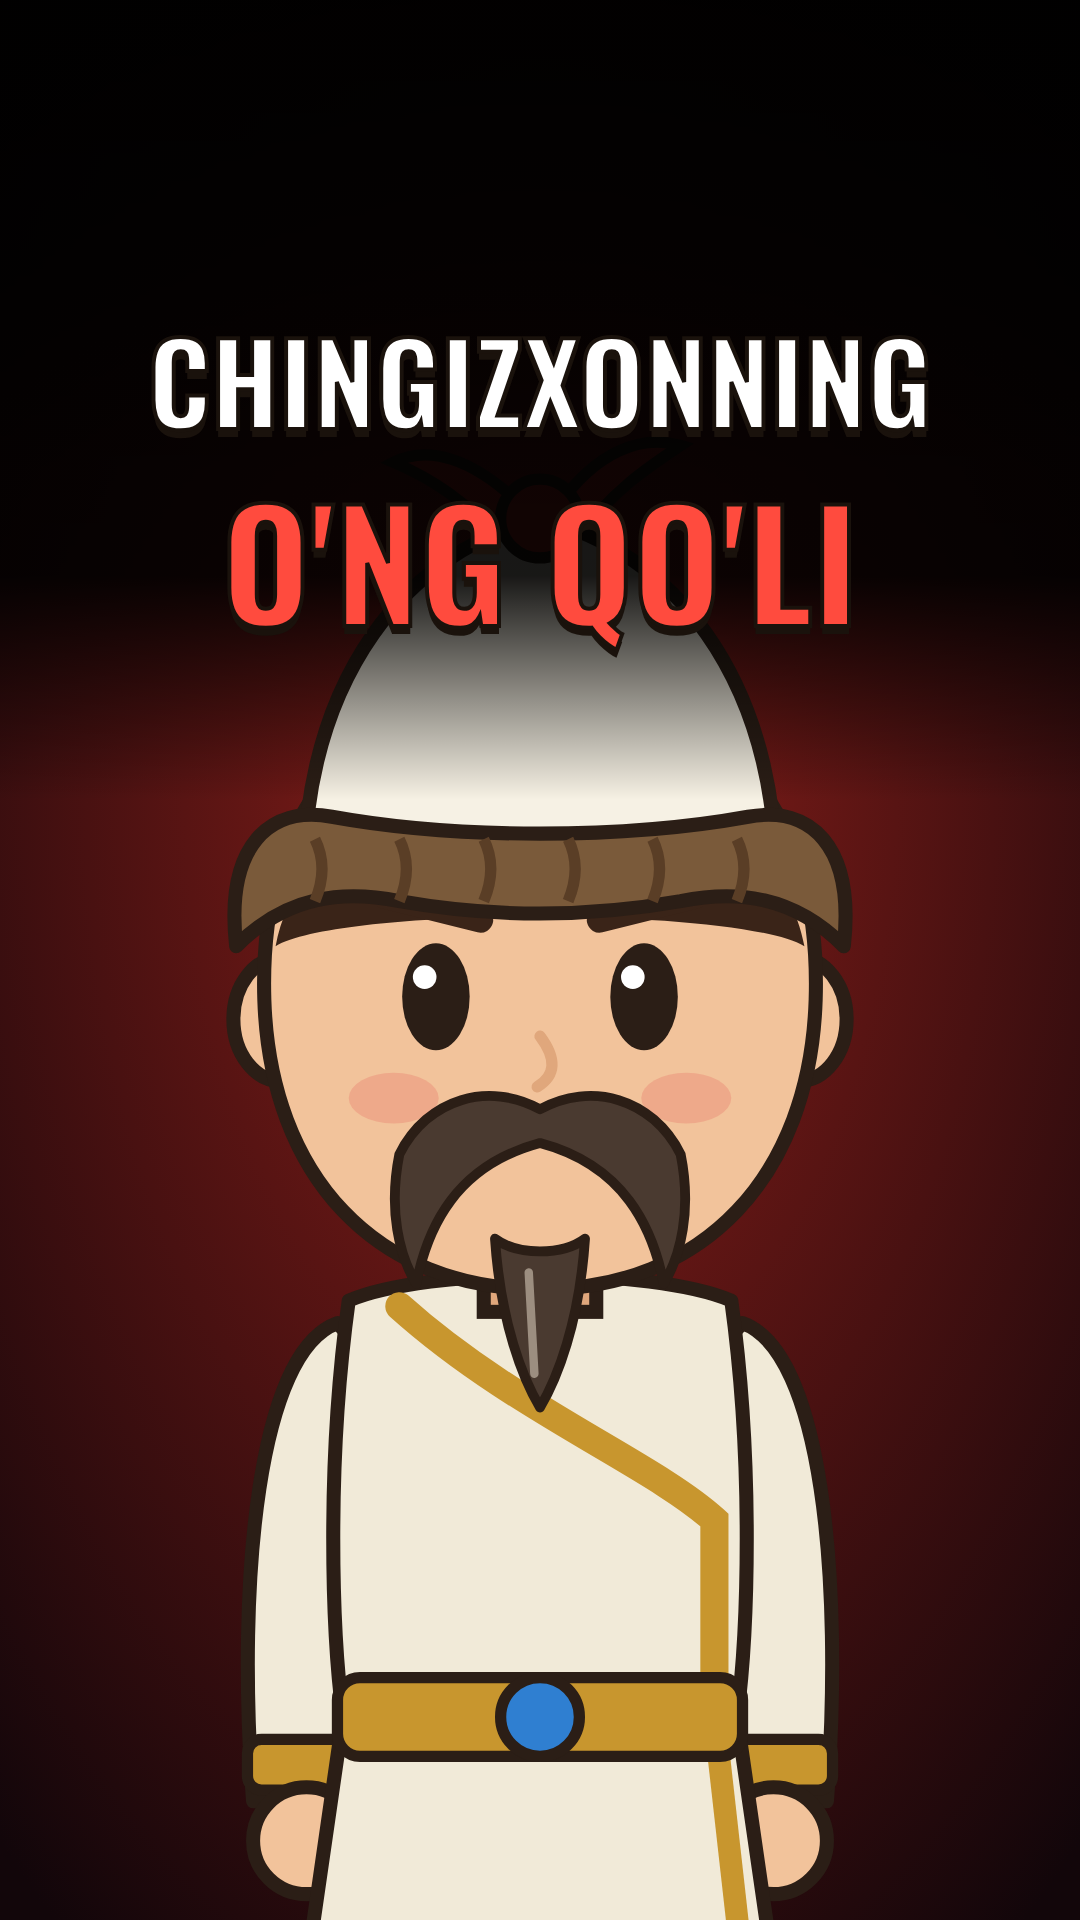
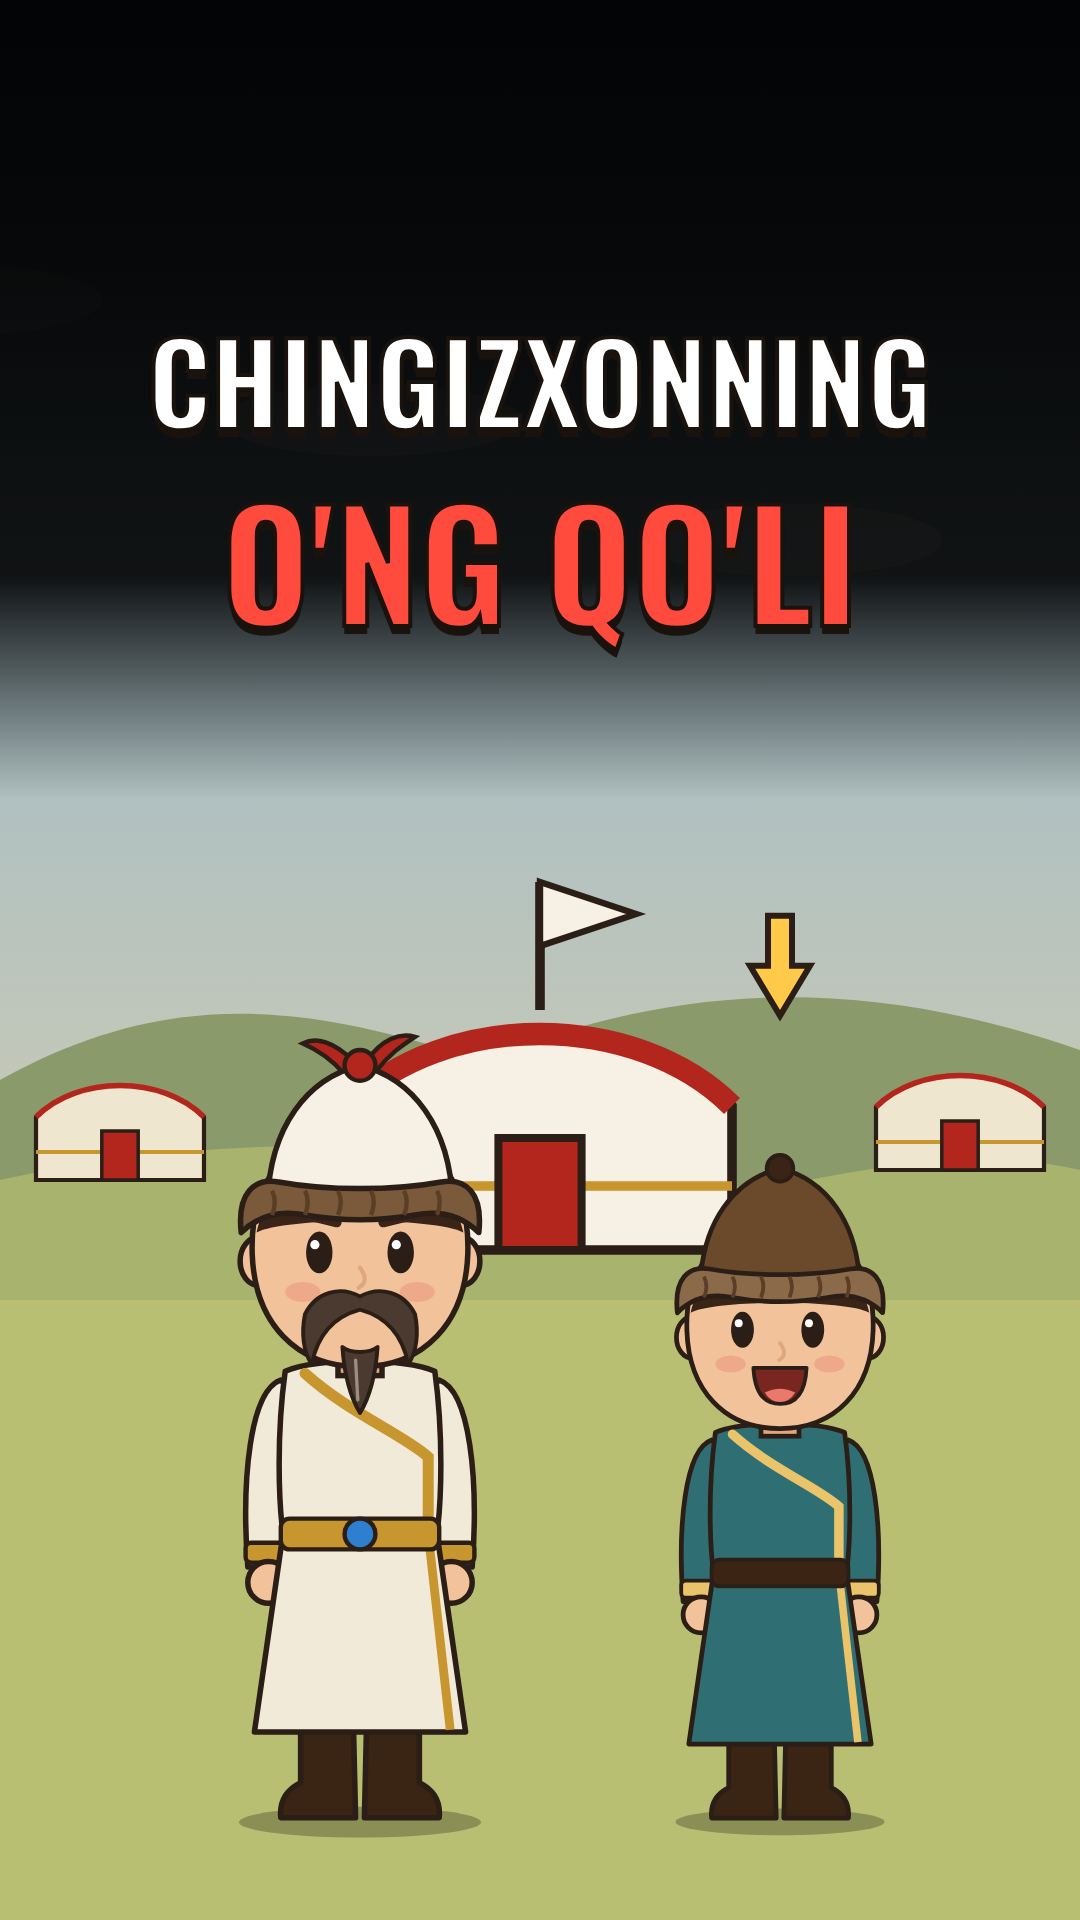
Tasavvur qil 4: muqova C (Chingizxon va o'ng qo'li)
Claude-Session: https://claude.ai/code/session_01TTDtXD3t3bgd3dz6iYixVz

diff --git a/video/src/Root.tsx b/video/src/Root.tsx
@@ -52,6 +52,7 @@ export const Root: React.FC = () => (
   <Composition id="TQ2" component={TQ2} durationInFrames={TQ2_FRAMES} fps={30} width={1080} height={1920} />
   <Composition id="TQ3" component={TQ3} durationInFrames={TQ3_FRAMES} fps={30} width={1080} height={1920} />
   <Composition id="TQ4CoverA" component={TQ4Cover} defaultProps={{v: 'a' as const}} durationInFrames={1} fps={30} width={1080} height={1920} />
+  <Composition id="TQ4CoverC" component={TQ4Cover} defaultProps={{v: 'c' as const}} durationInFrames={1} fps={30} width={1080} height={1920} />
   <Composition id="TQ4CoverB" component={TQ4Cover} defaultProps={{v: 'b' as const}} durationInFrames={1} fps={30} width={1080} height={1920} />
   <Composition id="TQ4" component={TQ4} durationInFrames={TQ4_FRAMES} fps={30} width={1080} height={1920} />
   <Composition id="TQ3CoverA" component={TQ3Cover} defaultProps={{v: 'a' as const}} durationInFrames={1} fps={30} width={1080} height={1920} />

diff --git a/video/src/tasavvur/TQ4Cover.tsx b/video/src/tasavvur/TQ4Cover.tsx
@@ -7,6 +7,7 @@ import {useOswald} from './common';
 // Key content inside the 3:4 grid crop (y 240..1680). The title box hides the video's own caption.
 const VARIANTS = {
   a: {frame: 1737, l1: 'CHINGIZXONNING', l2: "O'NG QO'LI"},
+  c: {frame: 380, l1: 'CHINGIZXONNING', l2: "O'NG QO'LI"},
   b: {frame: 1218, l1: 'DUSHMANINI', l2: 'KECHIRDI!'},
 } as const;
 

diff --git a/video/instagram/post_tasavvur4.md b/video/instagram/post_tasavvur4.md
@@ -1,6 +1,6 @@
 # "Tasavvur qil" 4-qism: Chingizxonning o'ng qo'li
 
-Video: video/exports/tasavvur4_chingizxon_ong_qoli_1080p.mp4 (83 s). Muqova: instagram/cover_tasavvur4.png (A, foydalanuvchi tanladi).
+Video: video/exports/tasavvur4_chingizxon_ong_qoli_1080p.mp4 (83 s). Muqova: instagram/cover_tasavvur4.png (C: Chingizxon + o'ng qo'li Bek; A Bek'siz edi, foydalanuvchi to'g'riladi).
 Manba: "Mo'g'ullarning maxfiy tarixi" §147 (Jebe), §200 (Jamuxaning navkarlari).
 
 ## Caption
